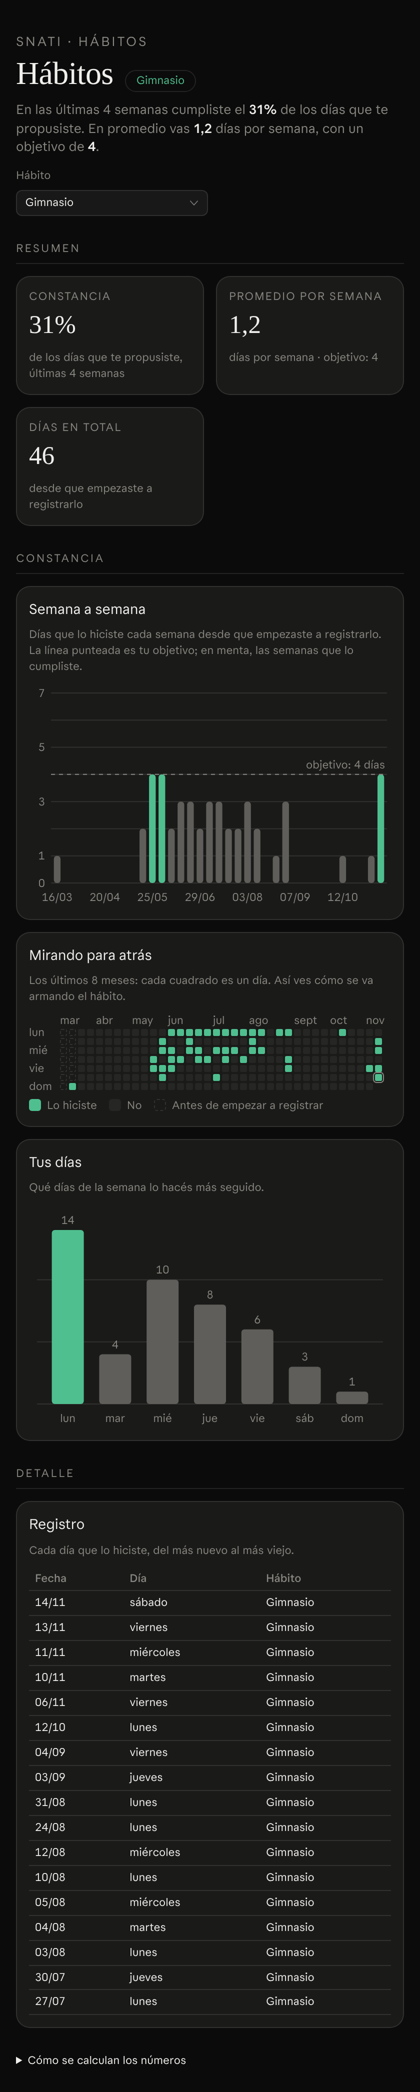
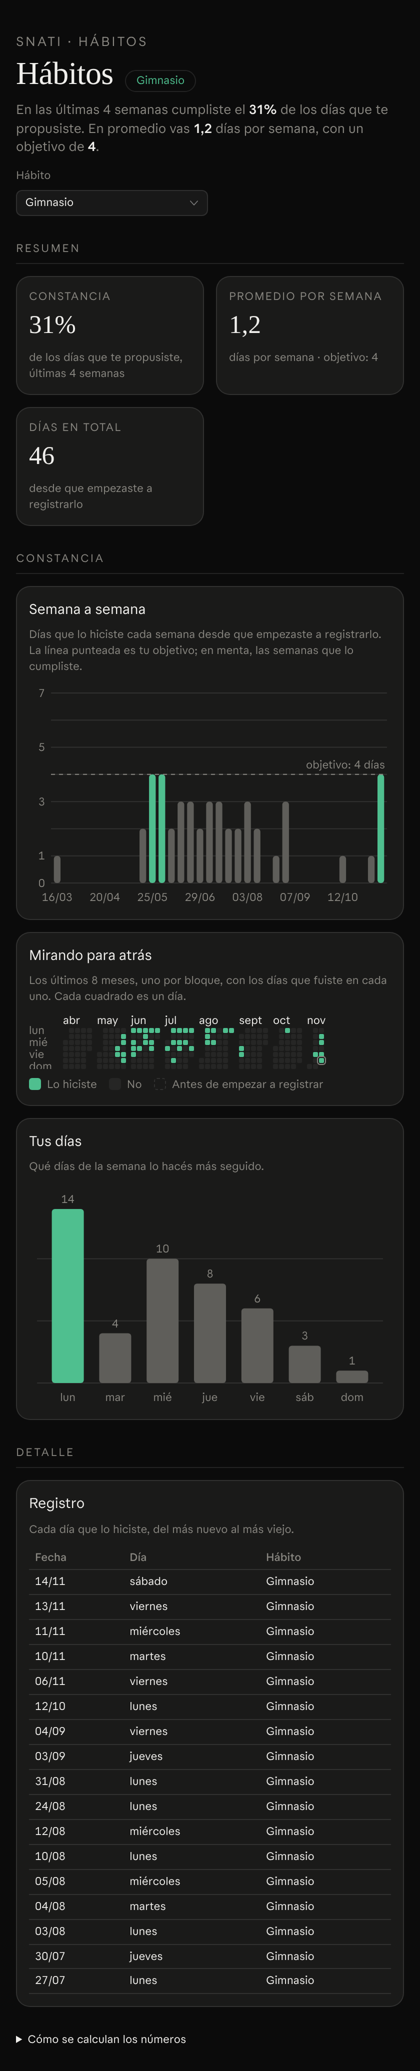
Habitos: calendario separado por meses, con los dias de cada mes
Claude-Session: https://claude.ai/code/session_01PpP39kW1xYnVw7kQo1jQZA

diff --git a/Habitos/Dashboard/index.html b/Habitos/Dashboard/index.html
@@ -80,14 +80,16 @@
   .fz-state.fz-on { color: var(--fz-accent); border-color: color-mix(in srgb, var(--fz-accent) 45%, transparent); }
   .fz-state.fz-mid { color: var(--color-fg-muted); }
   .fz-heat-box { overflow-x: auto; }
-  .fz-heat { display: grid; gap: 4px; width: max-content; min-width: max-content; font-size: var(--cds-font-size-caption); color: var(--color-fg-muted); }
+  .fz-heat { display: flex; align-items: flex-start; gap: var(--fz-mgap, 12px); width: max-content; min-width: max-content; font-size: var(--cds-font-size-caption); color: var(--color-fg-muted); }
+  .fz-heat .fz-hdays, .fz-heat .fz-month { display: grid; gap: var(--fz-gap, 4px); grid-auto-flow: column; }
+  .fz-heat .fz-mname { grid-row: 1; white-space: nowrap; color: var(--color-fg); }
+  .fz-heat .fz-mname span { color: var(--color-fg-muted); }
   .fz-heat .fz-hc { width: var(--fz-cell, 18px); height: var(--fz-cell, 18px); border-radius: calc(var(--fz-cell, 18px) / 4.5); background: var(--fz-raise); }
   .fz-heat .fz-hc.fz-done { background: var(--fz-accent); }
   .fz-heat .fz-hc.fz-before { background: transparent; border: 1px dashed var(--color-border-line); }
   .fz-heat .fz-hc.fz-future { background: transparent; }
   .fz-heat .fz-hc.fz-today { outline: 1px solid var(--color-fg-muted); outline-offset: 1px; }
   .fz-heat .fz-hl { padding-right: 6px; line-height: var(--fz-cell, 18px); }
-  .fz-heat .fz-hm { height: 14px; white-space: nowrap; }
   .fz-legend { display: flex; flex-wrap: wrap; gap: var(--cds-gap-md); font-size: var(--cds-font-size-caption); color: var(--color-fg-muted); align-items: center; }
   .fz-legend i { display: inline-block; width: 12px; height: 12px; border-radius: 3px; margin-right: 6px; vertical-align: -2px; background: var(--fz-raise); }
   .fz-legend i.fz-done { background: var(--fz-accent); }
@@ -136,7 +138,7 @@
     </article>
     <article class="fz-card" id="calendario">
       <h2>Mirando para atrás</h2>
-      <p class="fz-note">Los últimos 8 meses: cada cuadrado es un día. Así ves cómo se va armando el hábito.</p>
+      <p class="fz-note">Los últimos 8 meses, uno por bloque, con los días que fuiste en cada uno. Cada cuadrado es un día.</p>
       <div class="fz-heat-box"><div class="fz-heat" data-draw="calendario" data-source="registros habitos"></div></div>
       <div class="fz-legend"><span><i class="fz-done"></i>Lo hiciste</span><span><i></i>No</span><span><i class="fz-before"></i>Antes de empezar a registrar</span></div>
     </article>
@@ -370,37 +372,53 @@
     if (!hab) return;
     const hechos = new Set(r.data.filter((x) => x.habito === s).map((x) => x.fecha));
     const fin = [hab.hasta, ...hechos].sort().pop();
-    const lunes = (iso) => { const d = new Date(iso + 'T00:00:00Z'); d.setUTCDate(d.getUTCDate() - (d.getUTCDay() + 6) % 7); return d; };
-    // Últimos 8 meses hasta el último día informado, y cuadrados que entran en el ancho disponible.
-    const desde = new Date(fin + 'T00:00:00Z'); desde.setUTCMonth(desde.getUTCMonth() - 8);
-    const start = lunes(desde.toISOString().slice(0, 10));
-    const semanas = Math.round((lunes(fin) - start) / 604800000) + 1;
-    const ancho = (el.parentElement ? el.parentElement.clientWidth : 600) - 36;
-    const gap = ancho / semanas < 12 ? 2 : 4;
-    const size = Math.max(7, Math.min(18, Math.floor(ancho / semanas) - gap));
-    el.style.setProperty('--fz-cell', `${size}px`);
-    el.style.gap = `${gap}px`;
-    el.style.gridTemplateColumns = `auto repeat(${semanas}, ${size}px)`;
-    el.style.gridTemplateRows = `14px repeat(7, ${size}px)`;
-    const nombres = ['lun', '', 'mié', '', 'vie', '', 'dom'];
-    const cell = (cls, txt, col, row, title) => { const c = document.createElement('div'); c.className = cls; if (txt) c.textContent = txt; c.style.gridColumn = col; c.style.gridRow = row; if (title) c.title = title; el.append(c); };
-    let mesPrev = '';
-    for (let w = 0; w < semanas; w++) {
-      const d0 = new Date(start); d0.setUTCDate(d0.getUTCDate() + 7 * w);
-      const mes = new Intl.DateTimeFormat('es-AR', { month: 'short', timeZone: 'UTC' }).format(d0).replace('.', '');
-      cell('fz-hm', mes !== mesPrev ? mes : '', w + 2, 1); mesPrev = mes;
-      for (let k = 0; k < 7; k++) {
-        const dd = new Date(d0); dd.setUTCDate(dd.getUTCDate() + k);
-        const iso = dd.toISOString().slice(0, 10);
-        let cls = 'fz-hc';
-        if (iso < hab.inicio) cls += ' fz-before';
-        else if (iso > fin) cls += ' fz-future';
-        else if (hechos.has(iso)) cls += ' fz-done';
-        if (iso === fin) cls += ' fz-today';
-        cell(cls, '', w + 2, k + 2, `${fzDia(iso)} · ${hechos.has(iso) ? 'lo hiciste' : iso < hab.inicio ? 'sin registro' : 'no'}`);
-      }
+    const iso = (d) => d.toISOString().slice(0, 10);
+    const wd = (d) => (d.getUTCDay() + 6) % 7; // 0 = lunes
+    // Últimos 8 meses (el actual y los 7 anteriores), un bloque por mes.
+    const [fy, fm] = fin.split('-').map(Number);
+    const meses = [];
+    for (let k = 7; k >= 0; k--) {
+      const first = new Date(Date.UTC(fy, fm - 1 - k, 1));
+      const last = new Date(Date.UTC(first.getUTCFullYear(), first.getUTCMonth() + 1, 0));
+      const cols = Math.ceil((wd(first) + last.getUTCDate()) / 7);
+      meses.push({ first, last, cols });
     }
-    nombres.forEach((n, k) => cell('fz-hl', n, 1, k + 2));
+    const totalCols = meses.reduce((a, m) => a + m.cols, 0);
+    const ancho = (el.parentElement ? el.parentElement.clientWidth : 600) - 30;
+    const mgap = ancho < 520 ? 5 : 12;
+    const porCol = (ancho - mgap * 8) / totalCols;
+    const gap = porCol < 12 ? 1 : 3;
+    const size = Math.max(4, Math.min(18, Math.floor(porCol) - gap));
+    el.style.setProperty('--fz-cell', `${size}px`);
+    el.style.setProperty('--fz-gap', `${gap}px`);
+    el.style.setProperty('--fz-mgap', `${mgap}px`);
+    const rows = `14px repeat(7, ${size}px)`;
+    // columna con los nombres de los días
+    const dias = document.createElement('div'); dias.className = 'fz-hdays'; dias.style.gridTemplateRows = rows;
+    ['', 'lun', '', 'mié', '', 'vie', '', 'dom'].forEach((n, k) => { const c = document.createElement('div'); c.className = k ? 'fz-hl' : ''; c.textContent = n; c.style.gridRow = String(k + 1); dias.append(c); });
+    el.append(dias);
+    for (const m of meses) {
+      const blk = document.createElement('div'); blk.className = 'fz-month';
+      blk.style.gridTemplateRows = rows; blk.style.gridTemplateColumns = `repeat(${m.cols}, ${size}px)`;
+      let n = 0;
+      for (let d = new Date(m.first); d <= m.last; d.setUTCDate(d.getUTCDate() + 1)) {
+        const day = iso(d);
+        const col = Math.floor((wd(m.first) + d.getUTCDate() - 1) / 7) + 1;
+        let cls = 'fz-hc';
+        if (day < hab.inicio) cls += ' fz-before';
+        else if (day > fin) cls += ' fz-future';
+        else if (hechos.has(day)) { cls += ' fz-done'; n += 1; }
+        if (day === fin) cls += ' fz-today';
+        const c = document.createElement('div'); c.className = cls; c.style.gridColumn = String(col); c.style.gridRow = String(wd(d) + 2);
+        c.title = `${fzDia(day)} · ${hechos.has(day) ? 'lo hiciste' : day < hab.inicio ? 'sin registro' : 'no'}`;
+        blk.append(c);
+      }
+      const name = document.createElement('div'); name.className = 'fz-mname'; name.style.gridColumn = `1 / span ${m.cols}`;
+      name.textContent = new Intl.DateTimeFormat('es-AR', { month: 'short', timeZone: 'UTC' }).format(m.first).replace('.', '');
+      if (size >= 11) { const sp = document.createElement('span'); sp.textContent = ` · ${n}`; name.append(sp); }
+      blk.prepend(name);
+      el.append(blk);
+    }
   });
 
   dash.draw('tabla-registro', (tb) => {

diff --git a/Diseno/ESTETICA_DASHBOARDS.md b/Diseno/ESTETICA_DASHBOARDS.md
@@ -86,7 +86,7 @@ una columna y las columnas secundarias de las tablas se esconden (`.fz-hide-narr
 - **Línea de objetivo**: punteada (`stroke-dasharray 4 4`) en muted, con el texto `objetivo: 4 días` al final.
 - **Tooltip** (`.fz-tip`): cajita flotante con fondo `--cds-surface-popover`, borde, sombra, radio; primera
   línea en gris (qué es), segunda con el valor. Va dentro del gráfico.
-- **Grilla mes por mes / calendario**: celdas redondeadas; las "activas" en menta (suave o lleno), las vacías
+- **Grilla mes por mes / calendario**: un bloque por mes con su nombre y total arriba, separados por un espacio; celdas redondeadas que se achican para entrar en el ancho; las "activas" en menta (suave o lleno), las vacías
   en `--fz-raise`, las de antes de empezar con borde punteado.
 - **Barra de progreso** (`.fz-progress`): 10px de alto, redonda, fondo `--fz-raise`, relleno menta.
 - Los SVG van con `width="100%"` y `viewBox`, y se dibujan según `clientWidth`.
